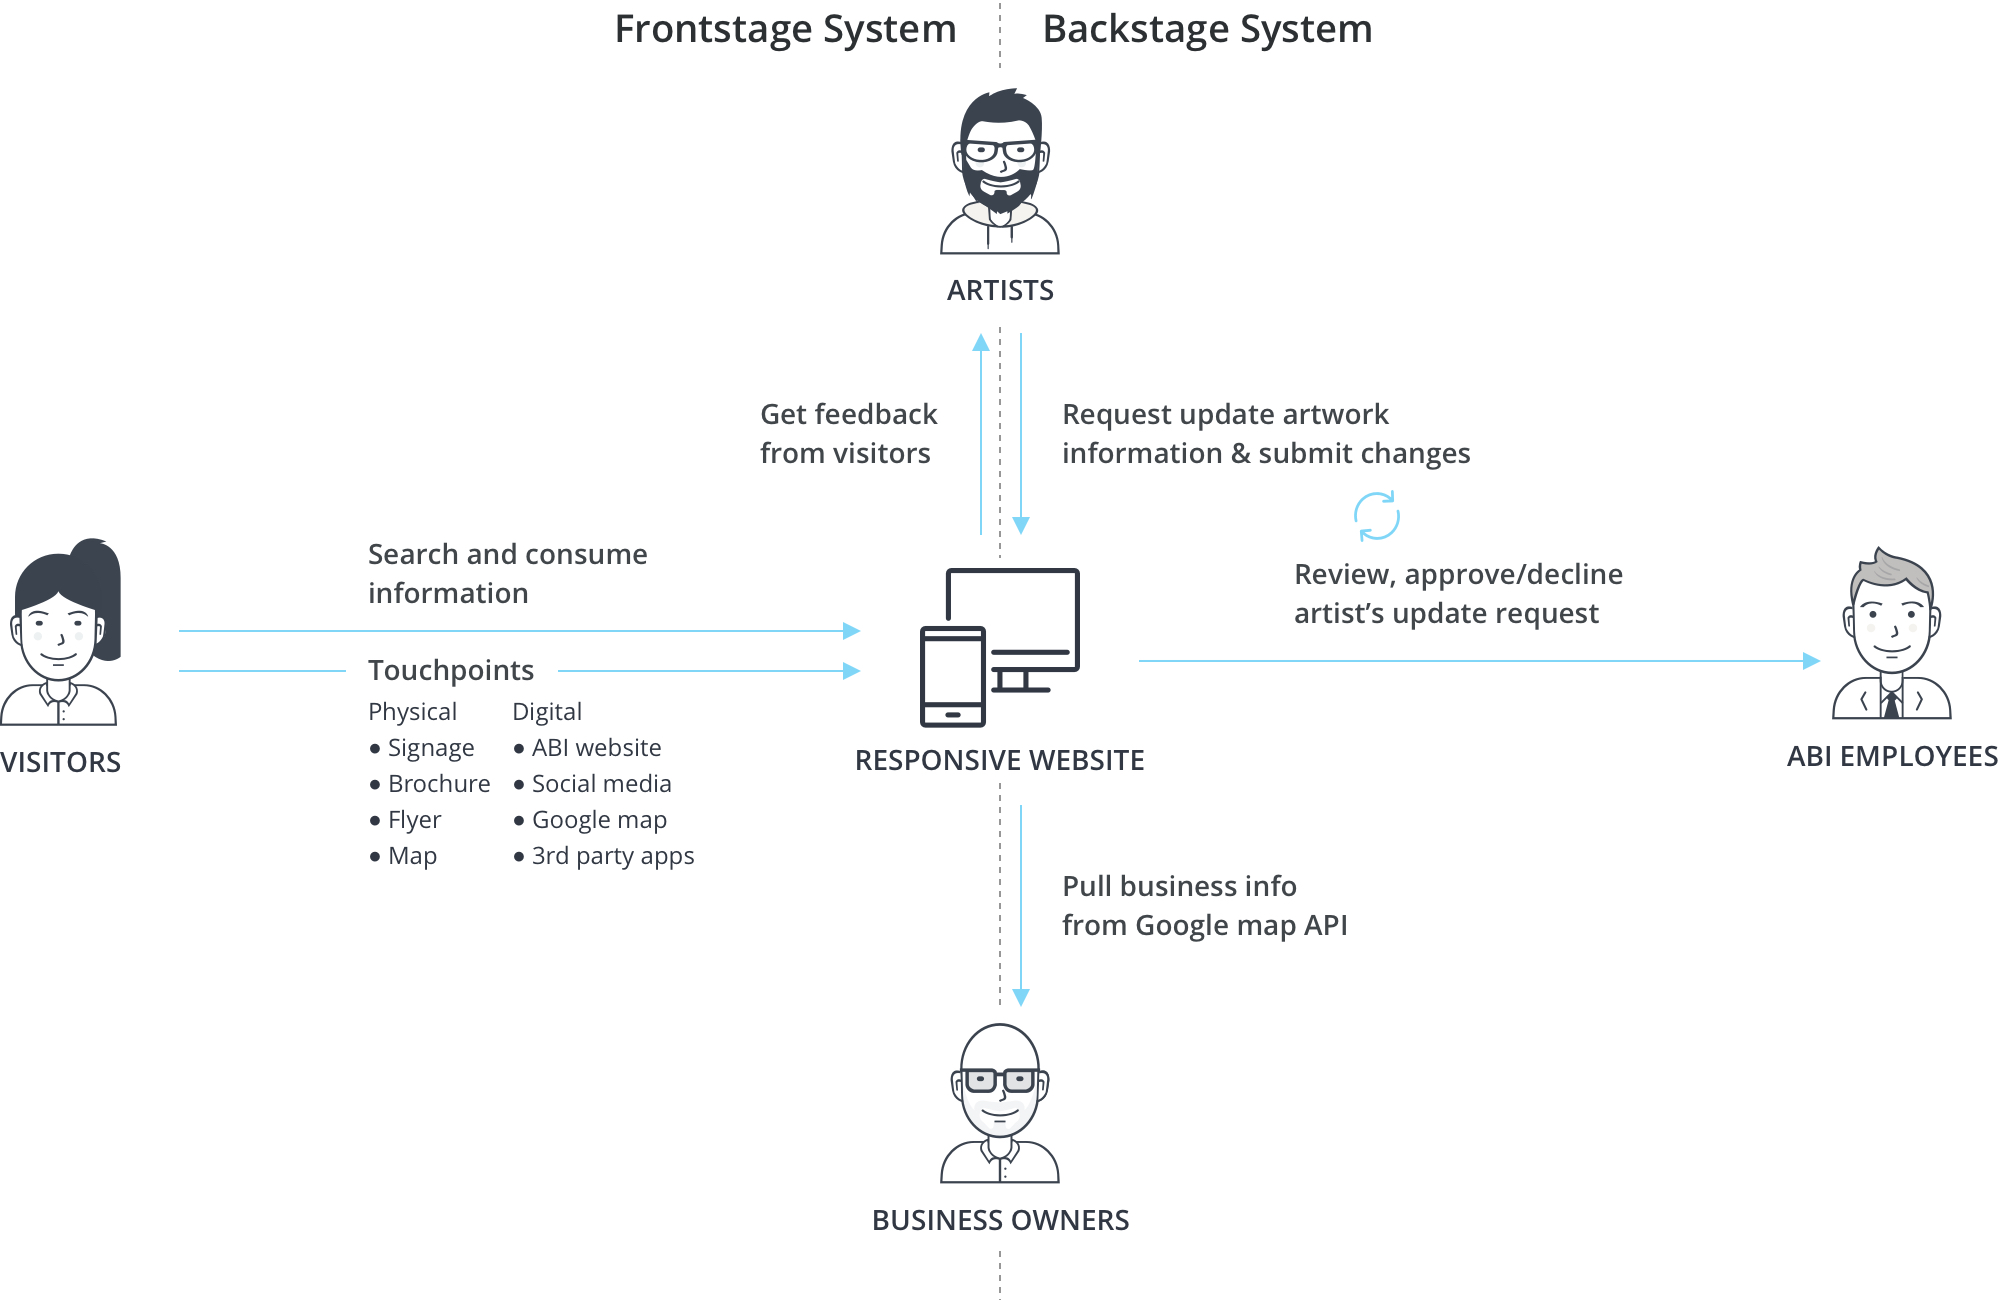
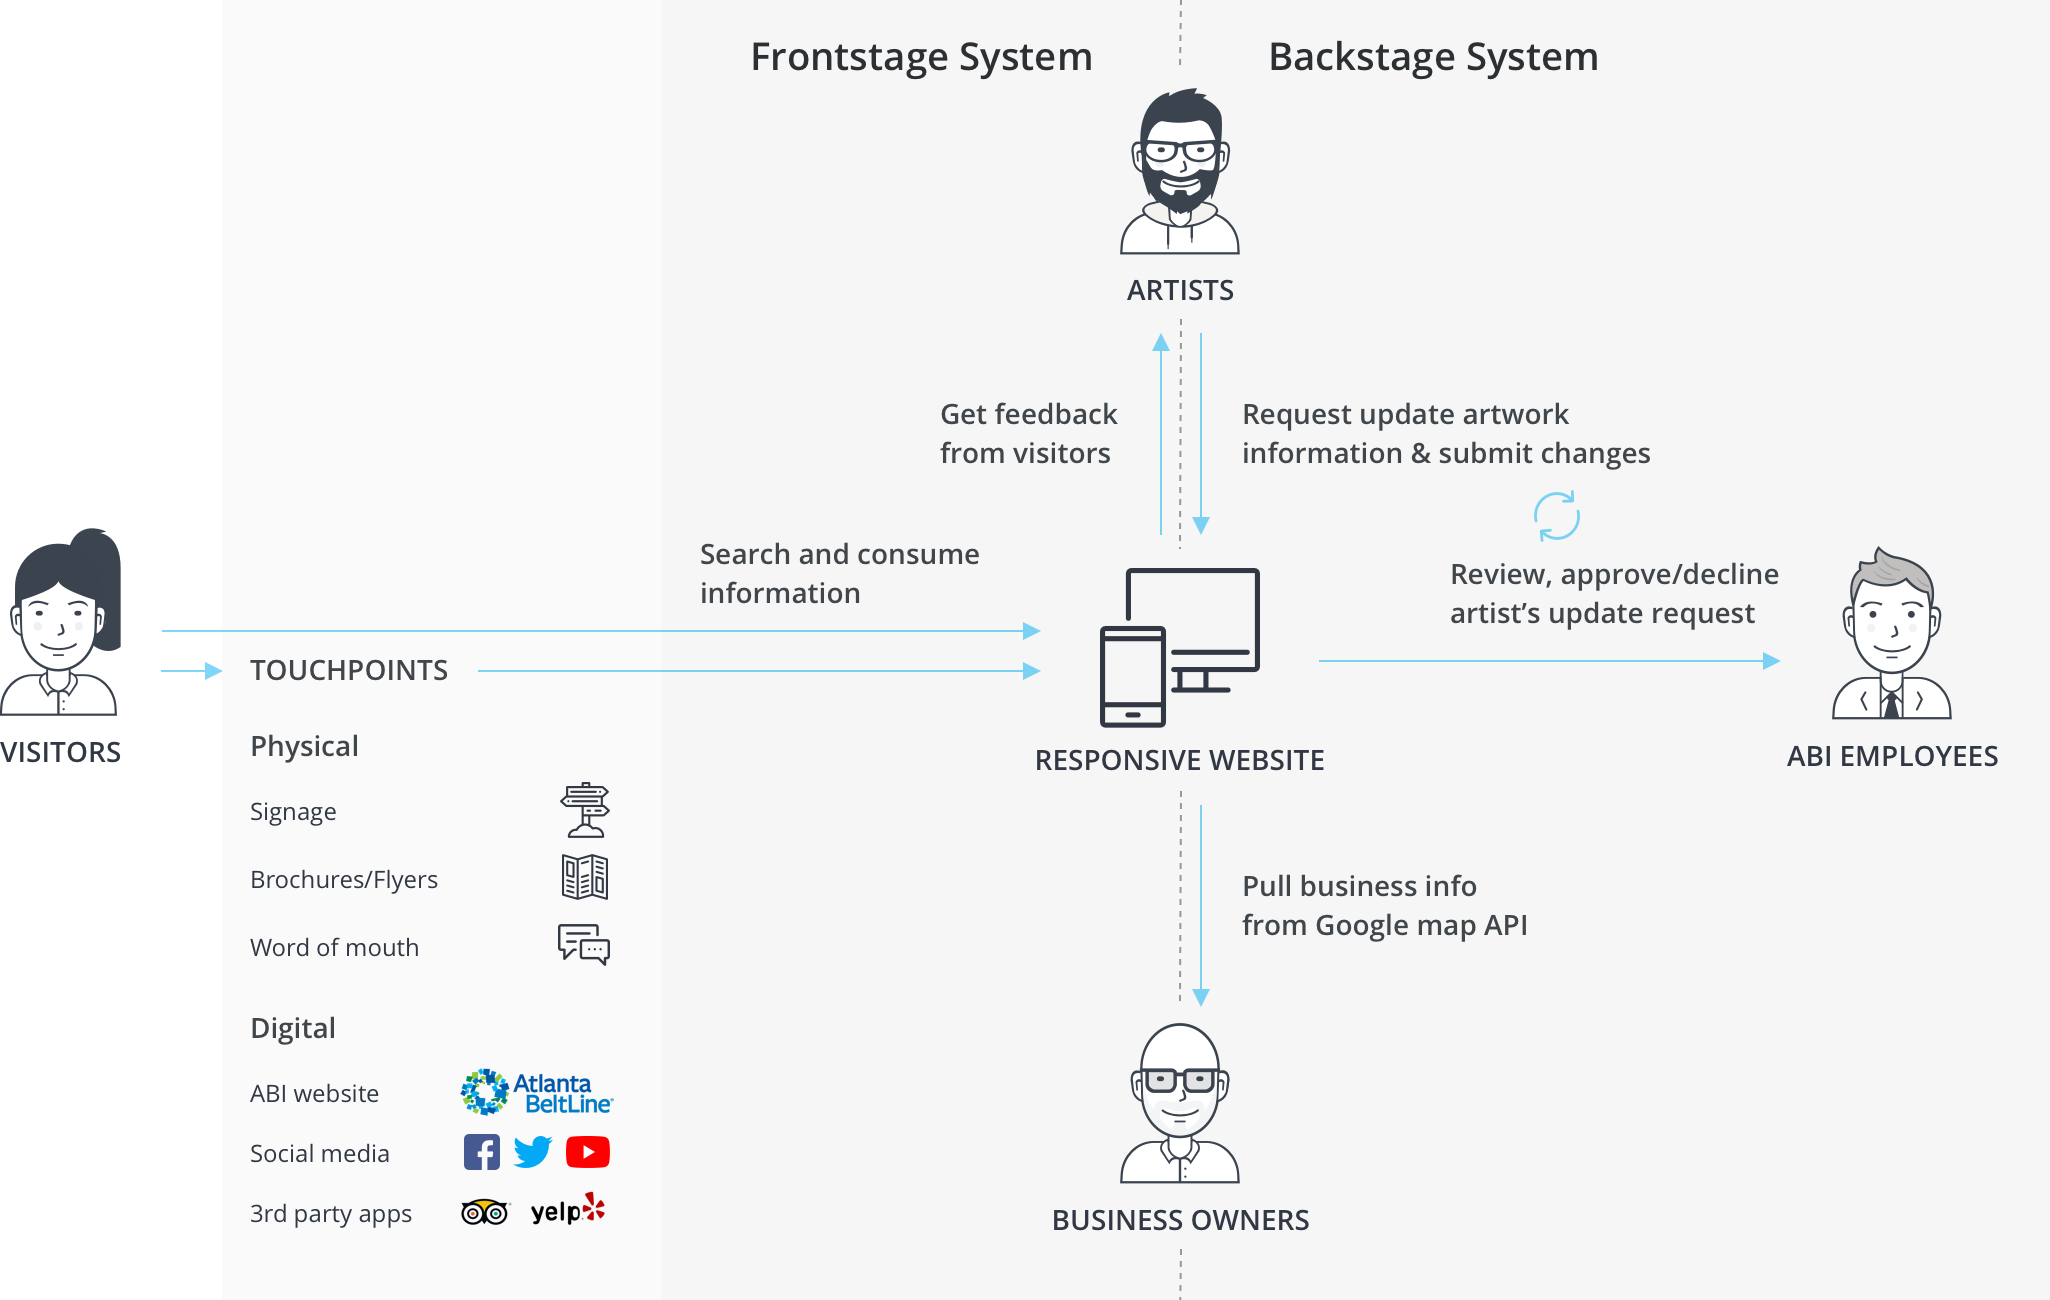
updates

diff --git a/aoab.html b/aoab.html
@@ -181,7 +181,7 @@
 							<li class=""><a href="#findings" class="subphase">·&nbsp Detailed Findings</a></li>
 							<li class="" style="margin-top: 12px;"><a href="#design" class="phase">Design</a></li>
 							<li class=""><a href="#ideation" class="subphase">·&nbsp Ideation</a></li>
-							<li class=""><a href="#concept" class="subphase">·&nbsp Design Concept</a></li>
+							<li class=""><a href="#concept" class="subphase">·&nbsp Concept</a></li>
 							<li class=""><a href="#blueprint" class="subphase">·&nbsp Service Blueprint</a></li>
 							<li class=""><a href="#brand" class="subphase">·&nbsp Brand System</a></li>
 							<li class=""><a href="#solution" class="subphase">·&nbsp Design Solution</a></li>
@@ -356,8 +356,8 @@
 									<img src="assets/img/portfolio/aoab/ideation@2x.jpg">
 								</div>
 								<div id="concept" style="margin-top: 80px;">
-									<h3>Design Concept</h3>
-									<img src="assets/img/portfolio/aoab/concept@2x.jpg">
+									<h3>Concept</h3>
+									<img src="assets/img/portfolio/aoab/concept@2x.jpg" style="margin-top: 20px;">
 								</div>
 								<div id="blueprint" style="margin-top: 80px;">
 									<h3>Service Blueprint</h3>
@@ -374,6 +374,14 @@
 									<h3 style="margin-bottom: 20px;">Design Solution</h3>
 									<iframe width="100%" height="464px;" src="https://www.youtube.com/embed/3ZSqVP0rltM" frameborder="0" allow="accelerometer; autoplay; encrypted-media; gyroscope; picture-in-picture" allowfullscreen></iframe>
 									
+								</div>
+								<div id="physical" style="margin-top: 80px;">
+									<h3 style="margin-bottom: 20px;">Physical Touchpoints</h3>
+									<img src="assets/img/portfolio/aoab/physicalTouchpoint@2x.jpg" style="margin-top: 20px;">
+								</div>
+								<div id="digital" style="margin-top: 80px;">
+									<h3 style="margin-bottom: 20px;">Digital Touchpoints</h3>
+									<img src="assets/img/portfolio/aoab/physicalTouchpoint@2x.jpg" style="margin-top: 20px;">
 								</div>
 										
 							</div>
